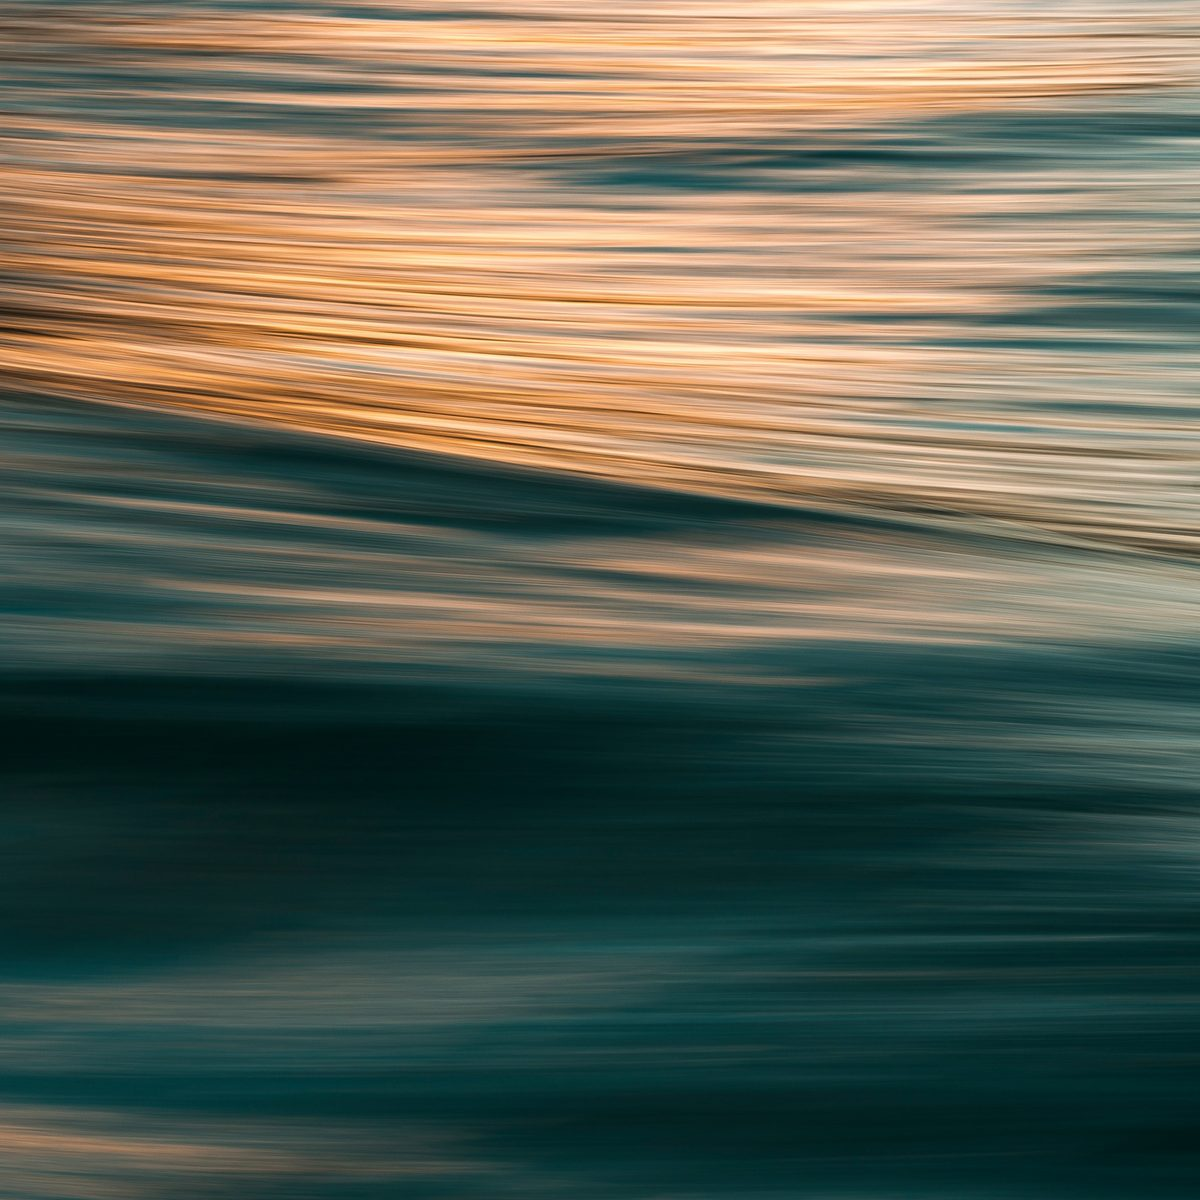
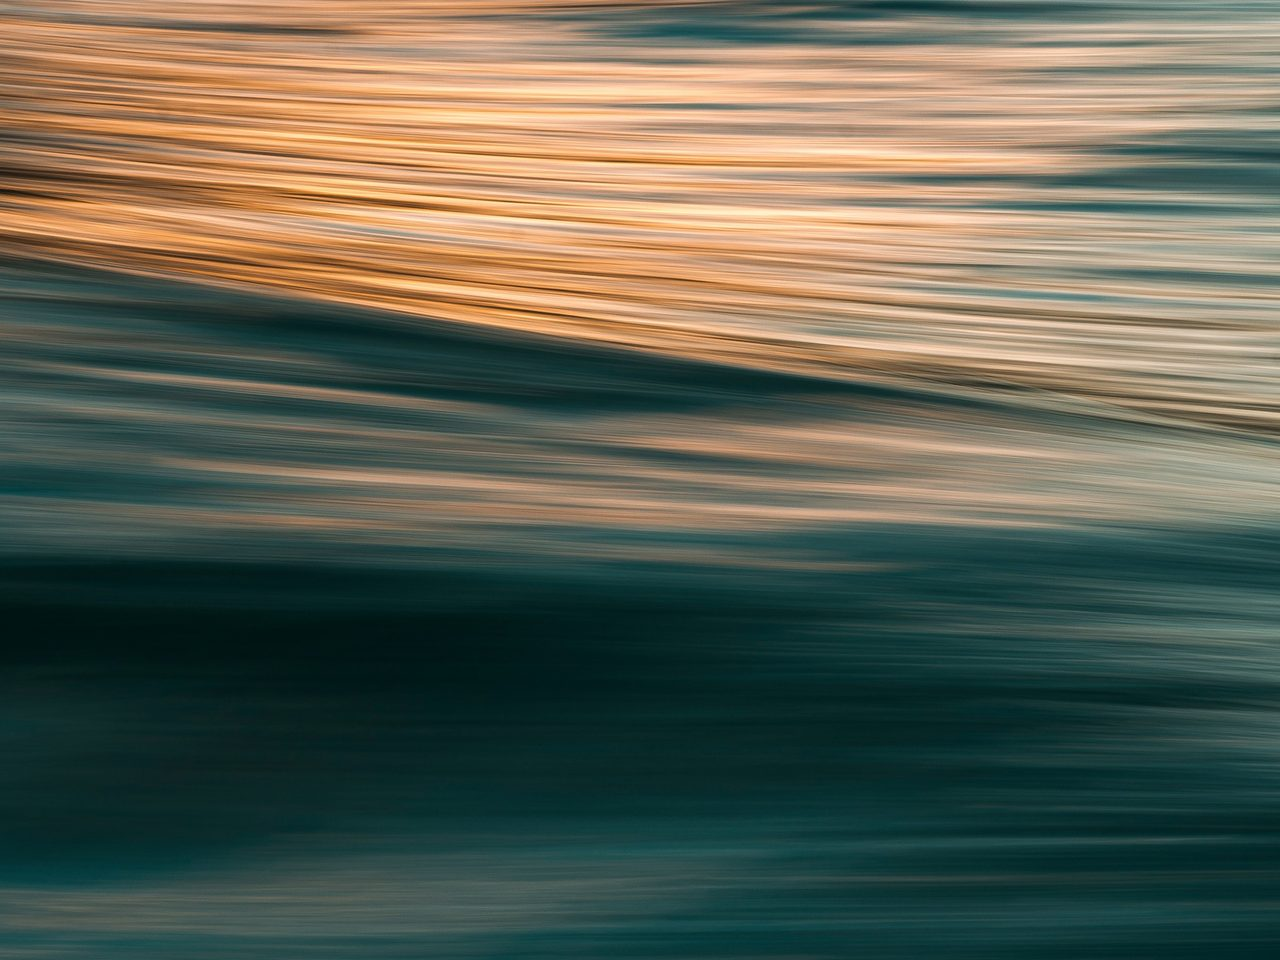
Aperçu mis à jour

diff --git a/index.html b/index.html
@@ -47,7 +47,7 @@
       <p class="chapeau">L’Alliance Synoïa est en quelque sorte une Université libre du Vivant. Elle a pour vocation de contribuer à la restructuration de la société et à l’acquisition des informations et compréhensions nécessaires à une expansion de conscience de l’humanité.</p>
     </div>
     <figure class="hero__image">
-      <img src="medien/fotos/ondes-dorees.jpg" width="1200" height="1200" alt="Surface de l’eau en mouvement, lumière dorée sur fond bleu-vert">
+      <img src="medien/fotos/aigrettes.jpg" width="1200" height="1200" alt="Aigrettes de graines en gros plan, reliées les unes aux autres">
       <figcaption>Photo provisoire</figcaption>
     </figure>
   </section>
@@ -131,7 +131,7 @@
         </p>
       </div>
       <figure>
-        <img src="medien/fotos/aigrettes.jpg" width="1280" height="960" alt="Aigrettes de graines prêtes à essaimer, en gros plan" loading="lazy">
+        <img src="medien/fotos/ondes-dorees.jpg" width="1280" height="960" alt="Surface de l’eau en mouvement, lumière dorée sur fond bleu-vert" loading="lazy">
         <figcaption>Photo provisoire</figcaption>
       </figure>
     </div>

diff --git a/faq.html b/faq.html
@@ -184,7 +184,7 @@
         </p>
       </div>
       <figure>
-        <img src="medien/fotos/petales.jpg" width="1280" height="960" alt="Pétales translucides dans une lumière claire" loading="lazy">
+        <img src="medien/fotos/filaments.jpg" width="1280" height="960" alt="Filaments lumineux d’une graine sur fond sombre" loading="lazy">
         <figcaption>Photo provisoire</figcaption>
       </figure>
     </div>

diff --git a/collaborations.html b/collaborations.html
@@ -53,6 +53,12 @@
     </div>
   </section>
 
+  <section class="bandeau">
+    <figure>
+      <img src="medien/fotos/petales.jpg" width="2400" height="900" alt="Pétales translucides réunis dans une lumière claire" loading="lazy">
+    </figure>
+  </section>
+
   <section class="section section--surface">
     <div class="wrap">
       <div class="section__tete">
